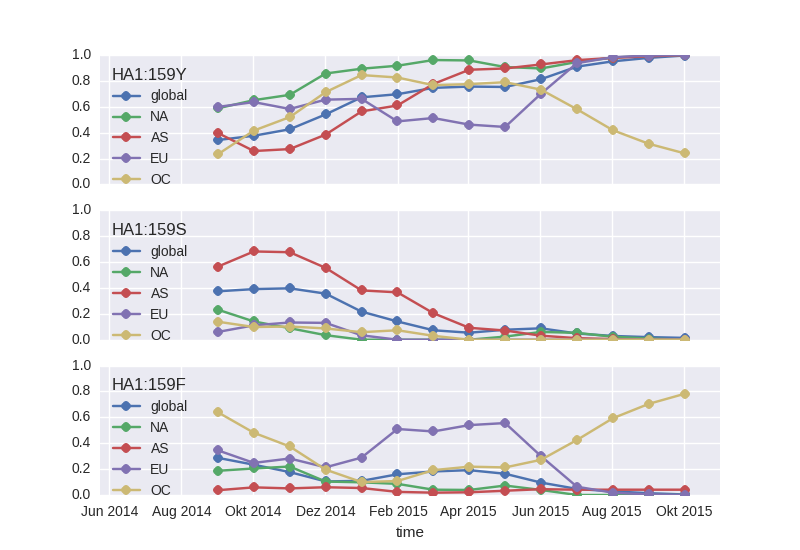
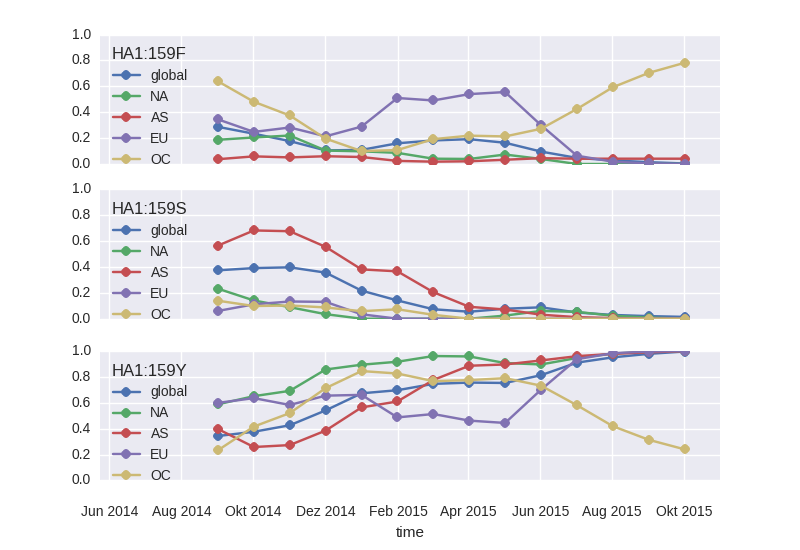
Replace H3N2 overview with genotypes to better show the three 159 clades.

diff --git a/auspice/reports/_posts/2015-09-15-sep-2015.html b/auspice/reports/_posts/2015-09-15-sep-2015.html
@@ -14,7 +14,7 @@ title: Seasonal influenza circulation patterns and future projections
 		
 		The majority of recently deposited viruses fall into clade 3c2a, which has been dominating since mid 2014. Judging by the sequences deposited in GISAID, 3c3a is almost extinct, while a minority of virus continue to fall into 3c3b. A few recent viruses from Oceania fall into clade 3c3b, but the overall number of recent sequences available from this region is very low.
 		
-		{% embed_image /reports/figures/sep-2015/H3N2_dates.png %}
+		{% embed_image /reports/figures/sep-2015/H3N2_HA1-159.png %}
 		
 		{% embed_image /reports/figures/sep-2015/H3N2_HA1_159_frequencies.png %}
 				
